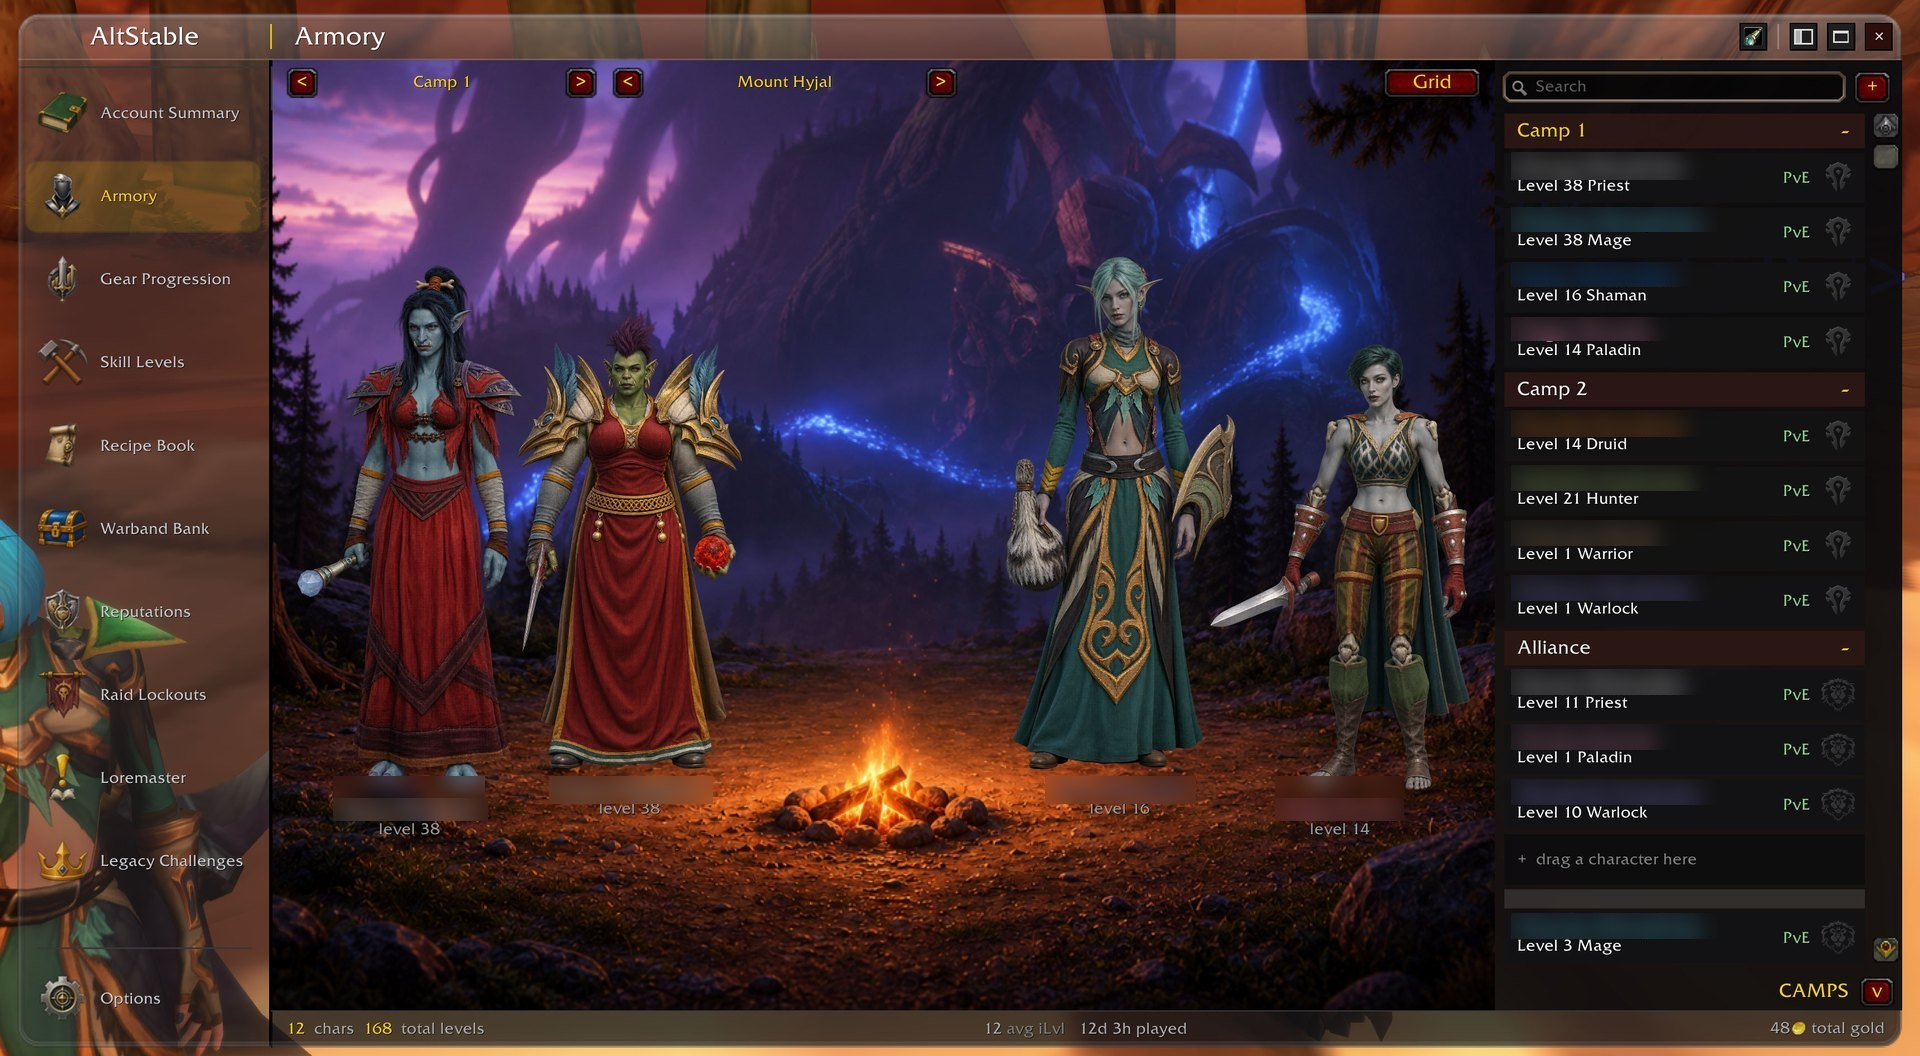
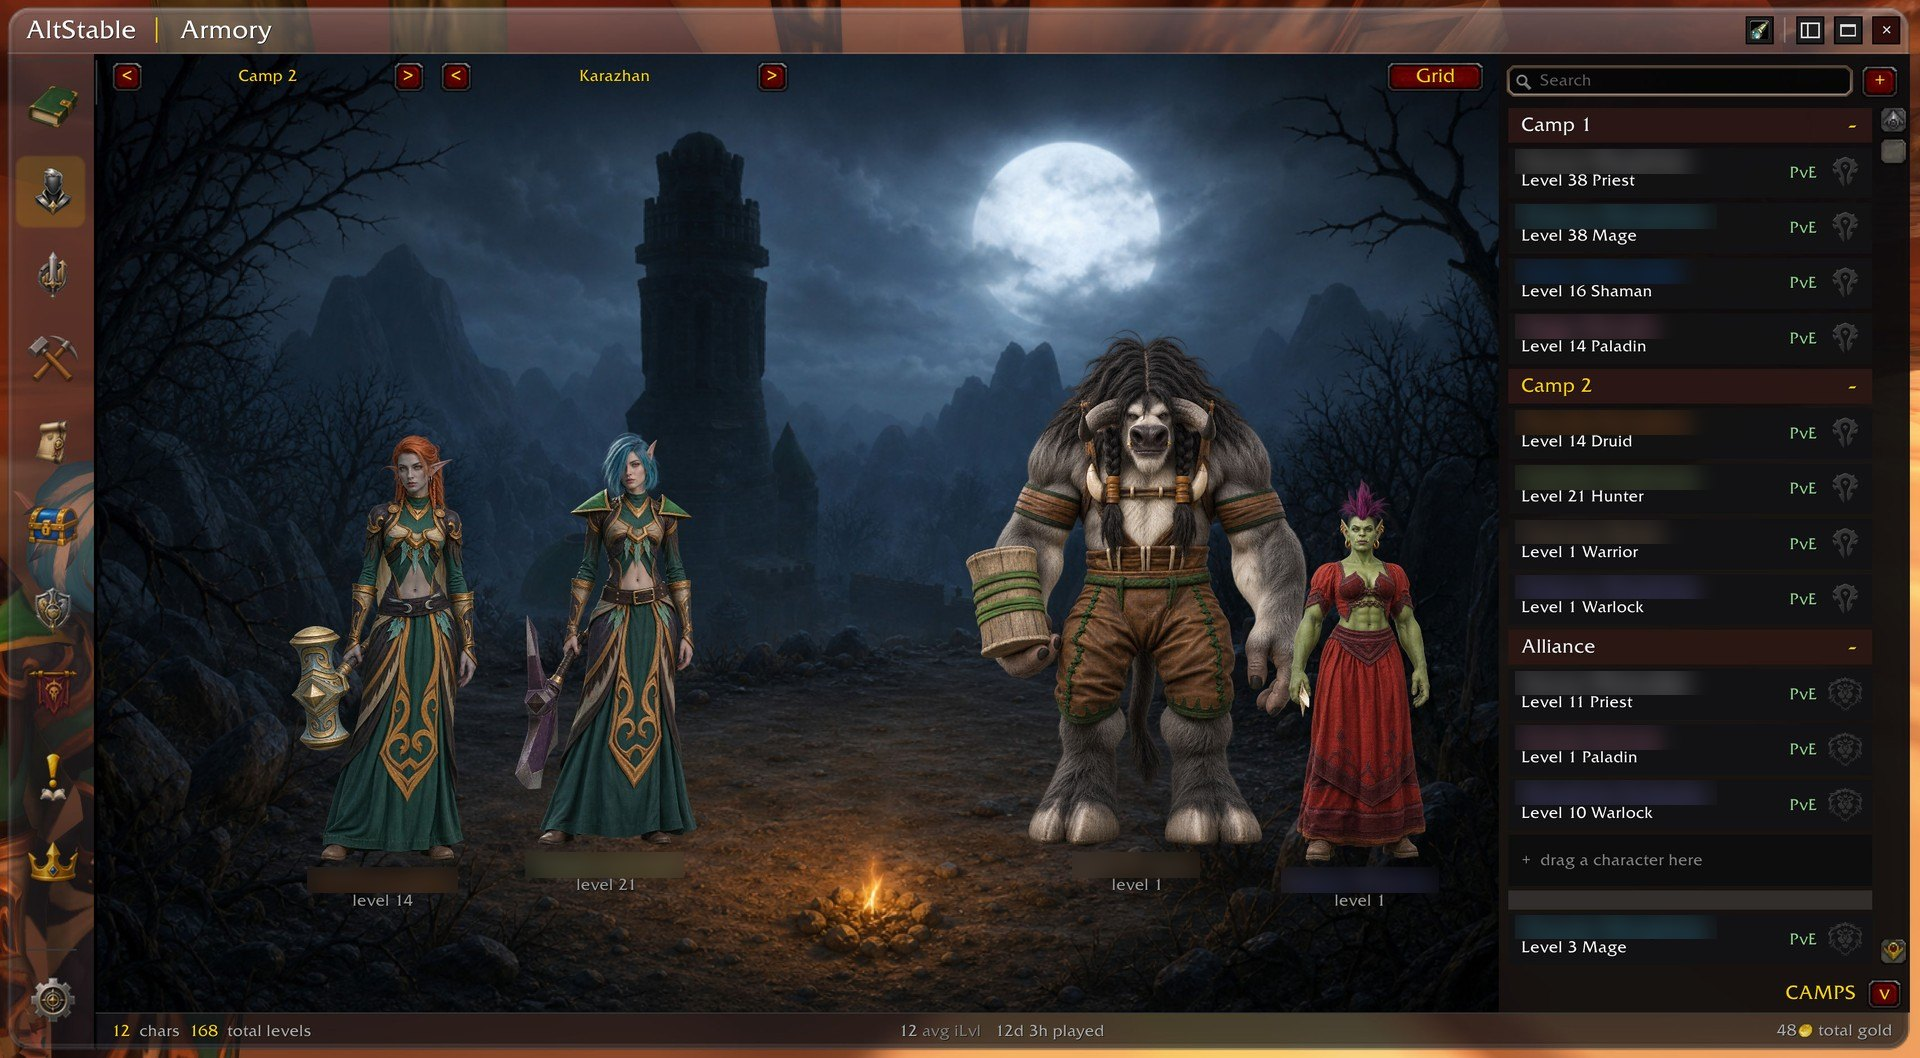
Release prep: v1.15.0 (#532)
* Release prep: v1.15.0 changelog, for the v1.15.0-beta1 pre-release

* Screenshots: the Warband Bank's Single view, retaken in the new look

Not referenced by the README (it shows the Combined view); kept current for
the CurseForge page. No names in it.

* Screenshots: the Armory camp at Karazhan, names blurred

The owner's new camp scene, with the sidebar collapsed, for the README's
first camp image (the enhanced one stays at Mount Hyjal).

* Screenshots: the enhanced-portrait camp, in Ashenvale by moonlight, names blurred

The owner's new camp with Companion's enhanced portraits, in the new look,
for the README's enhanced-portraits image.

* Changelog: the column choice is the sheet tabs', and the name always shows

Codex review of #532.

* Release prep: v1.15.0 as a release, the README's features

The owner: v1.15.0 is a regular release, the first part of a UI pass. The
README gains what v1.15.0 adds: Columns per sheet tab, the Spec and Played
columns, reputation progress, rested XP by Well Rested's rank, the Shift-only
counts, the AddOn Compartment entry and the Armory's Legacy talents. The
Bags and Hearthstone switches it named are gone from Options (#494).

* Release prep: the Spec column names a tree only when one leads

Codex review of #532: a tie, no points or talents not read show a dash, and
the tooltip gives the points as last recorded. Both READMEs and the changelog.

---------

diff --git a/README.md b/README.md
@@ -46,6 +46,7 @@ counts in tooltips** in the Warband Bank tab) turns it on or off either way.
 - **Match my current character by** Faction and/or Ruleset. With both ticked, a character must
   match both. With neither, everyone is together.
 - **Sort characters** by name or by count.
+- **Only while Shift is held:** the counts show only while you hold Shift.
 
 To keep an item's tooltip as it is, like the Hearthstone every character carries, type
 `/alts tooltip ignore <item>` (shift-click the item). `/alts tooltip unignore <item>` brings it back.
@@ -172,27 +173,34 @@ played on this WoW account; a character on another account shows its counts once
 
 ### How much gold, rested XP and progression does each character have?
 
-The **sheet** has one row per character: level, item level and gear in every slot, professions,
-Merchant's Favor, reputations (Vanilla's and Forever's own factions), guild, gold, rested XP and when it was last
-played. Sort by any column, and group the rows by ruleset, by faction or both (**Group**, in
+The **sheet** has one row per character: level, spec, item level and gear in every slot,
+professions, Merchant's Favor, reputations (Vanilla's and Forever's own factions), guild, gold,
+rested XP, time played and when it was last played. **Columns**, at the top of the window, chooses
+which columns each sheet tab shows; the character's name always shows. Sort by any column, and group the rows by ruleset, by faction or both (**Group**, in
 Options); hover a ruleset's header to see its servers. Since 2026-11-20 the game no longer tells
 addons a character's server, so the ruleset comes from the game's rules, and a character first
 seen since then has no server to show. Rested XP keeps counting up while you're
-away, worked out from where the character logged out, and faster and higher with the Well Rested
-talent.
+away, worked out from where the character logged out, up to the cap of 1.5 levels, and faster and
+higher with the Well Rested Legacy talent, by its rank.
+
+The **Spec** column names the talent tree with the most points, when one tree leads. A tie, no
+points spent, or talents not read yet (log in with the Armory on) show a dash. Hover it for the
+points in each tree, as last recorded. The **Played** column shows each character's time played, with the total
+along the bottom. Hover a reputation for its progress within the standing, such as "Honored
+1234 / 12000".
 
 The **Bags** column shows each character's free and total bag slots, to see who needs a bigger
 bag. Hover it for that character's bags, its bank tabs (as of its last bank visit) and the spare
-bags it carries or keeps in the bank or the mail. **Show the Bags column**, in Options, hides it.
+bags it carries or keeps in the bank or the mail.
 
-The **Hearthstone** column shows the inn each character is bound to. **Show the Hearthstone
-column**, in Options, hides it.
+The **Hearthstone** column shows the inn each character is bound to.
 
 Hover the gold in the game's bag window to see the total across your characters and how much
 each one holds, richest first. (Bagnon and Baganator replace that window and have their own.)
 
 With **Titan Panel** or another LibDataBroker display, add AltStable to it: it shows the same
 total, and the per-character list on hover. Left-click opens AltStable, right-click its Options.
+The same entry is in the minimap's **AddOn Compartment**.
 
 ![The sheet's gear view: the item level of every equipped slot for each character, coloured by quality](https://raw.githubusercontent.com/Spotnick2/AltStable/main/docs/images/sheet-gear.jpg)
 
@@ -273,7 +281,9 @@ installed and need to be **online at the same time**.
 The **Armory** tab shows your characters as character cards, or standing together around a
 campfire in **camps** of four (up to 50 camps), each with its own backdrop. Click a character for its paper
 doll, stats and talents. **View** opens its talents in the game's own talent frame, read-only,
-as they were when it was last played.
+as they were when it was last played. Its **Legacy** group shows the Legacy talents it chose:
+the points in each tree, and the talents on hover. **View** beside it opens the three trees,
+read-only. Each character needs one login with this version to be read.
 
 ![The Armory's character cards: one full-length portrait per character with its level, and a plain card with the class icon for characters without a portrait yet](https://raw.githubusercontent.com/Spotnick2/AltStable/main/docs/images/roster-cards.jpg)
 
@@ -283,7 +293,7 @@ as they were when it was last played.
 
 *Click a character for its paper doll and stats. The Audit tab beside Char lists its enchants.*
 
-![A camp in the Armory: four characters around a campfire at Mount Hyjal, from portraits made by AltStable Companion, with the camp list beside it](https://raw.githubusercontent.com/Spotnick2/AltStable/main/docs/images/roster.jpg)
+![A camp in the Armory: four characters around a campfire at Karazhan under a full moon, from portraits made by AltStable Companion, with the camp list beside it and the sidebar collapsed](https://raw.githubusercontent.com/Spotnick2/AltStable/main/docs/images/roster.jpg)
 
 *Armory portraits from your own captures, made by the free AltStable Companion.*
 
@@ -298,7 +308,7 @@ There are three separate pieces here, and only the first is required:
 The Companion makes ordinary portraits without any AI. Enhanced portraits are the only part that
 uses one.
 
-![Another camp, at Mount Hyjal, drawn with the optional enhanced portraits](https://raw.githubusercontent.com/Spotnick2/AltStable/main/docs/images/roster-enhanced.jpg)
+![Another camp, in Ashenvale by moonlight, drawn with the optional enhanced portraits](https://raw.githubusercontent.com/Spotnick2/AltStable/main/docs/images/roster-enhanced.jpg)
 
 *Another camp, with the optional enhanced portraits (Codex CLI, uses your ChatGPT account's usage).*
 

diff --git a/CHANGELOG.md b/CHANGELOG.md
@@ -1,5 +1,65 @@
 # Changelog
 
+## v1.15.0 - 2026-11-26
+
+**A new look for the window**, the first part of a pass over AltStable's interface: the title bar
+and the sidebar, with new icons and tab names. Also
+**each alt's Legacy talents**, a **Played** and a **Spec** column, and the choice of the columns on
+every sheet tab. Several came from players' comments on CurseForge. Built for client 1.60.1.71139, the
+live build. v1.15.0 syncs with everything v1.14.0 does.
+
+### AltStable Companion
+
+The Armory's character portraits come from **AltStable Companion**, a free Windows app that turns
+your `/alts portrait` captures into the transparent cutouts the scene draws (and can enhance them).
+It can also keep your characters in a Google Sheet in your own Google Drive. Get it from
+[AltStable Companion releases](https://github.com/Spotnick2/AltStableCompanion/releases).
+**Companion v1.3.2** is the current version.
+
+### New
+
+- **A new title bar** ([#523](https://github.com/Spotnick2/AltStable/issues/523)): "AltStable",
+  then the tab you're on. **Columns** opens the tab's column menu under it, and the sidebar's
+  collapse button now sits beside Maximize. The menu is easier to read over the grid.
+- **A new sidebar** ([#528](https://github.com/Spotnick2/AltStable/issues/528)): new icons, and
+  new names in a new order. Account Summary, **Armory** (was Roster), Gear Progression, **Skill
+  Levels** (was Skills), **Recipe Book** (was Professions), **Warband Bank** (was Warband),
+  Reputations, **Raid Lockouts** (was Raids), Loremaster, **Legacy Challenges** (was Legacy).
+  Options sits apart at the bottom, and the sidebar is only as wide as its names.
+- **Choose the columns of each sheet tab**
+  ([#378](https://github.com/Spotnick2/AltStable/issues/378)): on Account Summary, Gear
+  Progression, Skill Levels and Reputations, the **Columns** button lists the columns the tab can
+  show. The character's name always shows. Tick or untick the others, or show them all again;
+  each tab keeps its own choice. Options has a **Show all columns** button for every tab at once.
+- **A Played column** ([#378](https://github.com/Spotnick2/AltStable/issues/378)): each
+  character's time played, read whenever it's logged in, with the total along the bottom.
+- **A Spec column** ([#506](https://github.com/Spotnick2/AltStable/issues/506)), on Account
+  Summary and Gear Progression: the talent tree with the most points, such as "Frost", when one
+  tree leads. A tie, no points spent, or talents not read yet show a dash. The tooltip gives the
+  points in each tree, as last recorded.
+- **Each alt's Legacy talents** ([#500](https://github.com/Spotnick2/AltStable/issues/500)): a
+  character opened in the Armory has a **Legacy** group, with the points spent and each tree's
+  points. Hover a tree for its talents. **View** opens the three trees, read-only, as they were
+  when the character was last played. Each alt needs one login on this version to be read.
+- **Reputation progress** ([#396](https://github.com/Spotnick2/AltStable/issues/396)): a reputation
+  cell's tooltip gives the progress within the standing, such as "Honored 1234 / 12000".
+- **Item counts only while Shift is held**
+  ([#493](https://github.com/Spotnick2/AltStable/issues/493)): an option under the item tooltip
+  counts.
+- **An entry in the minimap's AddOn Compartment**
+  ([#510](https://github.com/Spotnick2/AltStable/issues/510)): left-click opens AltStable,
+  right-click its Options, and its tooltip gives your gold.
+- **Portraits as the game draws them** ([#485](https://github.com/Spotnick2/AltStable/issues/485),
+  [#497](https://github.com/Spotnick2/AltStable/issues/497)): a hidden helm or cloak stays hidden,
+  and each slot's look within a saved outfit is passed to AltStable Companion.
+
+### Fixed
+
+- **Rested XP above 150%** ([#526](https://github.com/Spotnick2/AltStable/issues/526)): an alt the
+  game briefly reported over the cap showed 221% and was called Well Rested. Rested XP is now held
+  at the cap. Well Rested's cap and rate follow its rank in the alt's Legacy talents: 156% at 1/5,
+  180% at 5/5.
+
 ## v1.14.0 - 2026-11-25
 
 **Raid attunements** in the Loremaster tab, and the Roster's gear hover for your other account's
